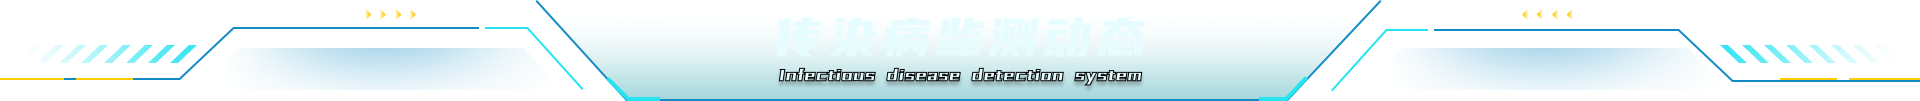
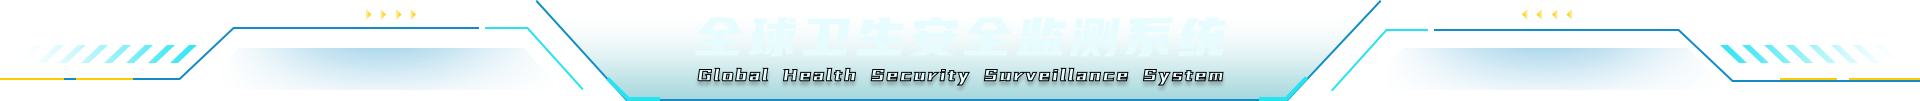
update code

Changed region(s): [[0.3438, 0.6535, 0.6562, 0.8614]]

diff --git a/src/pages/Disease/center/index.tsx b/src/pages/Disease/center/index.tsx
@@ -49,33 +49,34 @@ export default function Center(props) {
                 pieces: [
                     {
                         lte: data?.[0]?.value,
-                        gte: data?.[9]?.value,
-                        label: 'Top1-Top10',
+                        gte: data?.[19]?.value,
+                        label: 'Top1-Top20',
                         color: '#d4efff',
                     },
                     {
-                        lte: data?.[10]?.value,
-                        gte: data?.[19]?.value,
-                        label: 'Top11-Top20',
+                        lte: data?.[20]?.value,
+                        gte: data?.[49]?.value,
+                        label: 'Top20-Top50',
                         color: '#91d2f8',
                     },
                     {
-                        lte: data?.[20]?.value,
-                        gte: data?.[29]?.value,
-                        label: 'Top21-Top30',
+
+                        lte: data?.[59]?.value,
+                        gte: data?.[99]?.value,
+                        label: 'Top50-Top100',
                         color: '#5192b7',
                     },
                     {
-                        lte: data?.[30]?.value,
-                        label: 'Top30以下',
+                        lte: data?.[100]?.value,
+                        gte: data?.[149]?.value,
+                        label: 'Top100-Top150',
                         color: '#164c6a',
                     },
-                    // {
-                    //     lte: data?.total?.[0]?.score,
-                    //     gte: data?.total?.[2]?.score,
-                    //     label: 'Top1-Top3',
-                    //     color: '#fcf5bf',
-                    // },
+                    {
+                        lte: data?.[150]?.value,
+                        label: 'Top150以下',
+                        color: "#0e3c53"
+                    },
                     // {
                     //     lte: data?.total?.[3]?.score,
                     //     gte: data?.total?.[9]?.score,
@@ -125,7 +126,7 @@ export default function Center(props) {
                             {(infectious ?? []).map((el) => {
                                 return (
                                     <div key={el?.sortNum}>
-                                        {dayjs(el?.publishTime).format("YYYY.MM")} <a href={el?.url} target="_blank" rel="noreferrer">{el?.titleCn}</a>
+                                        {dayjs(el?.publishTime).format("YYYY/MM/DD")} <a href={el?.url} target="_blank" rel="noreferrer">{el?.titleCn}</a>
                                     </div>
                                 );
                             })}

diff --git a/src/pages/Disease/index.tsx b/src/pages/Disease/index.tsx
@@ -20,7 +20,7 @@ export default function Disease() {
         debounceInterval: 1000
     });
     // 当你需要改变页面标题的动态值
-    const dynamicTitle = "传染病监测动态";
+    const dynamicTitle = "全球卫生安全监测系统";
 
     useEffect(() => {
         // 将原始标题存储在一个变量中

diff --git a/src/pages/Disease/center/style.module.less b/src/pages/Disease/center/style.module.less
@@ -34,8 +34,6 @@
   > div {
     padding-bottom: 10px;
     > a {
-      font-family: 'Alibaba PuHuiTi 2.0';
-      font-style: normal;
       font-weight: 400;
       font-size: 14px;
     }
